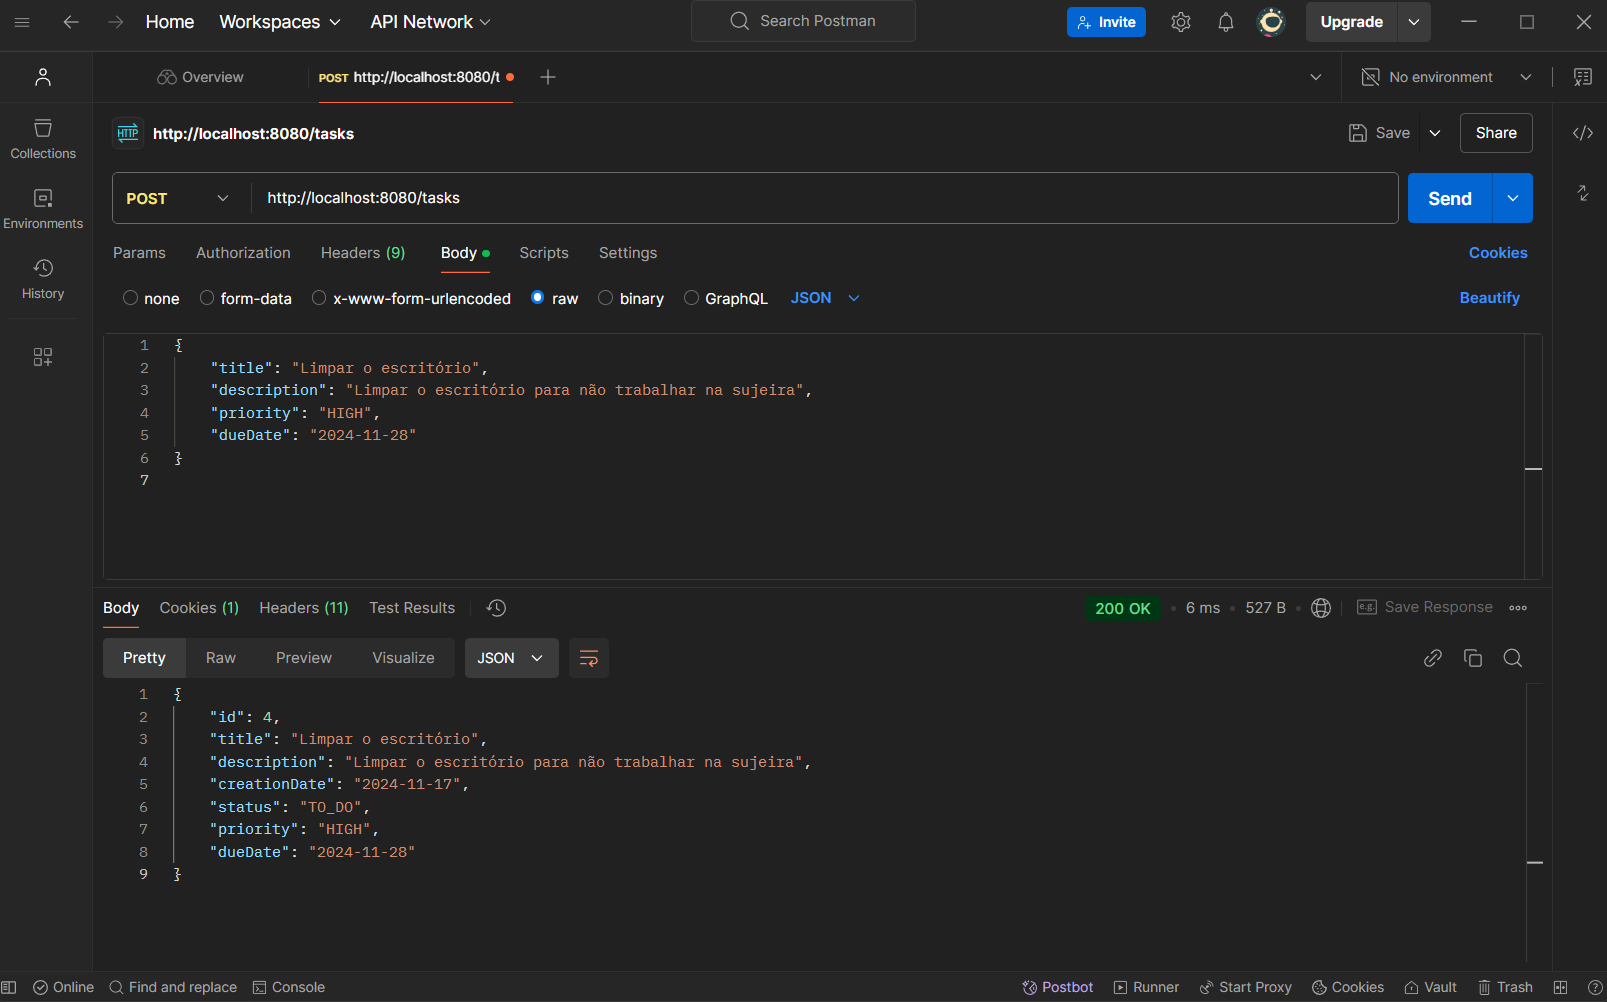
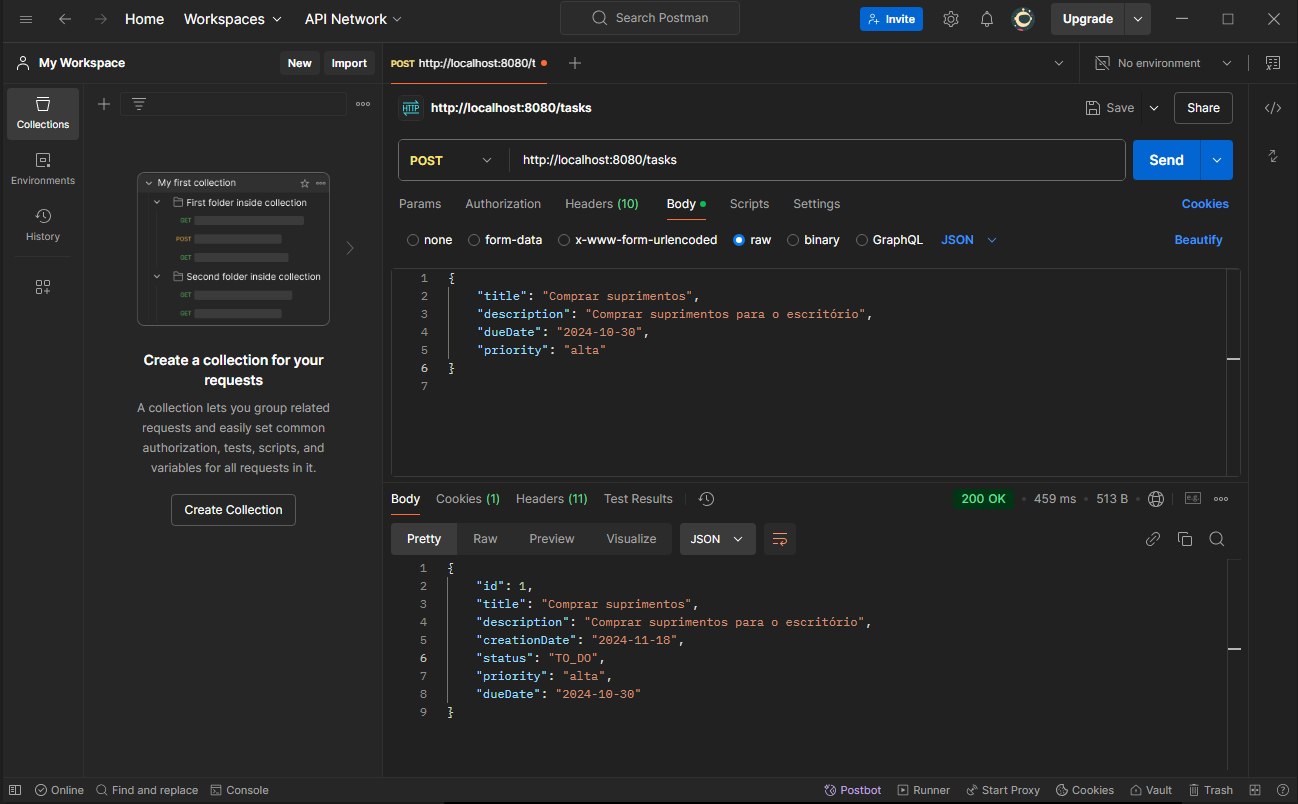
Update auth

diff --git a/src/main/java/com/trabalho/kanban/config/JwtAuthenticationFilter.java b/src/main/java/com/trabalho/kanban/config/JwtAuthenticationFilter.java
@@ -1,0 +1,59 @@
+package com.trabalho.kanban.config;
+
+import jakarta.servlet.FilterChain;
+import jakarta.servlet.ServletException;
+import jakarta.servlet.http.HttpServletRequest;
+import jakarta.servlet.http.HttpServletResponse;
+import org.springframework.beans.factory.annotation.Autowired;
+import org.springframework.context.ApplicationContext;
+import org.springframework.context.ApplicationContextAware;
+import org.springframework.security.authentication.UsernamePasswordAuthenticationToken;
+import org.springframework.security.core.context.SecurityContextHolder;
+import org.springframework.security.core.userdetails.UserDetails;
+import org.springframework.security.core.userdetails.UserDetailsService;
+import org.springframework.security.web.authentication.WebAuthenticationDetailsSource;
+import org.springframework.stereotype.Component;
+import org.springframework.web.filter.OncePerRequestFilter;
+
+import java.io.IOException;
+
+@Component
+public class JwtAuthenticationFilter extends OncePerRequestFilter implements ApplicationContextAware {
+
+    private ApplicationContext applicationContext;
+    @Autowired
+    private JwtUtil jwtUtil;
+
+    @Override
+    public void setApplicationContext(ApplicationContext applicationContext) {
+        this.applicationContext = applicationContext;
+    }
+
+    @Override
+    protected void doFilterInternal(HttpServletRequest request, HttpServletResponse response, FilterChain filterChain)
+            throws ServletException, IOException {
+
+        String authorizationHeader = request.getHeader("Authorization");
+        String username = null;
+        String token = null;
+
+        if (authorizationHeader != null && authorizationHeader.startsWith("Bearer ")) {
+            token = authorizationHeader.substring(7);
+            username = jwtUtil.extractUsername(token);
+        }
+
+        if (username != null && SecurityContextHolder.getContext().getAuthentication() == null) {
+            UserDetailsService userDetailsService = applicationContext.getBean(UserDetailsService.class);
+            UserDetails userDetails = userDetailsService.loadUserByUsername(username);
+
+            if (jwtUtil.validateToken(token, userDetails.getUsername())) {
+                UsernamePasswordAuthenticationToken authentication = new UsernamePasswordAuthenticationToken(
+                        userDetails, null, userDetails.getAuthorities());
+                authentication.setDetails(new WebAuthenticationDetailsSource().buildDetails(request));
+                SecurityContextHolder.getContext().setAuthentication(authentication);
+            }
+        }
+
+        filterChain.doFilter(request, response);
+    }
+}

diff --git a/src/main/java/com/trabalho/kanban/config/SecurityConfig.java b/src/main/java/com/trabalho/kanban/config/SecurityConfig.java
@@ -1,5 +1,6 @@
 package com.trabalho.kanban.config;
 
+import org.springframework.beans.factory.annotation.Autowired;
 import org.springframework.context.annotation.Bean;
 import org.springframework.context.annotation.Configuration;
 import org.springframework.security.authentication.AuthenticationManager;
@@ -8,14 +9,18 @@ import org.springframework.security.config.annotation.web.builders.HttpSecurity;
 import org.springframework.security.config.annotation.web.configuration.EnableWebSecurity;
 import org.springframework.security.core.userdetails.User;
 import org.springframework.security.core.userdetails.UserDetailsService;
-import org.springframework.security.provisioning.InMemoryUserDetailsManager;
-import org.springframework.security.web.SecurityFilterChain;
 import org.springframework.security.crypto.bcrypt.BCryptPasswordEncoder;
 import org.springframework.security.crypto.password.PasswordEncoder;
+import org.springframework.security.provisioning.InMemoryUserDetailsManager;
+import org.springframework.security.web.SecurityFilterChain;
+import org.springframework.security.web.authentication.UsernamePasswordAuthenticationFilter;
 
 @Configuration
 @EnableWebSecurity
 public class SecurityConfig {
+
+    @Autowired
+    private JwtAuthenticationFilter jwtAuthenticationFilter;
 
     @Bean
     public SecurityFilterChain securityFilterChain(HttpSecurity http) throws Exception {
@@ -25,7 +30,7 @@ public class SecurityConfig {
                         .requestMatchers("/auth/login").permitAll()
                         .anyRequest().authenticated()
                 )
-                .httpBasic().disable();
+                .addFilterBefore(jwtAuthenticationFilter, UsernamePasswordAuthenticationFilter.class);
 
         return http.build();
     }

diff --git a/src/main/java/com/trabalho/kanban/model/Priority.java b/src/main/java/com/trabalho/kanban/model/Priority.java
@@ -1,0 +1,31 @@
+package com.trabalho.kanban.model;
+
+import com.fasterxml.jackson.annotation.JsonCreator;
+import com.fasterxml.jackson.annotation.JsonValue;
+
+public enum Priority {
+    HIGH("alta"),
+    MEDIUM("média"),
+    LOW("baixa");
+
+    private final String descricao;
+
+    Priority(String descricao) {
+        this.descricao = descricao;
+    }
+
+    @JsonValue
+    public String getDescricao() {
+        return descricao;
+    }
+
+    @JsonCreator
+    public static Priority fromDescricao(String descricao) {
+        for (Priority priority : Priority.values()) {
+            if (priority.descricao.equalsIgnoreCase(descricao)) {
+                return priority;
+            }
+        }
+        throw new IllegalArgumentException("Valor inválido para Priority: " + descricao);
+    }
+}

diff --git a/src/main/java/com/trabalho/kanban/model/Task.java b/src/main/java/com/trabalho/kanban/model/Task.java
@@ -87,10 +87,4 @@ public class Task {
         IN_PROGRESS,
         DONE
     }
-
-    public enum Priority {
-        LOW,
-        MEDIUM,
-        HIGH
-    }
 }
